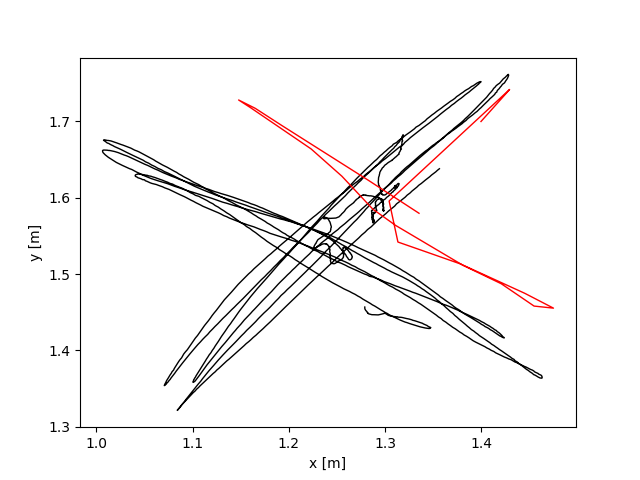
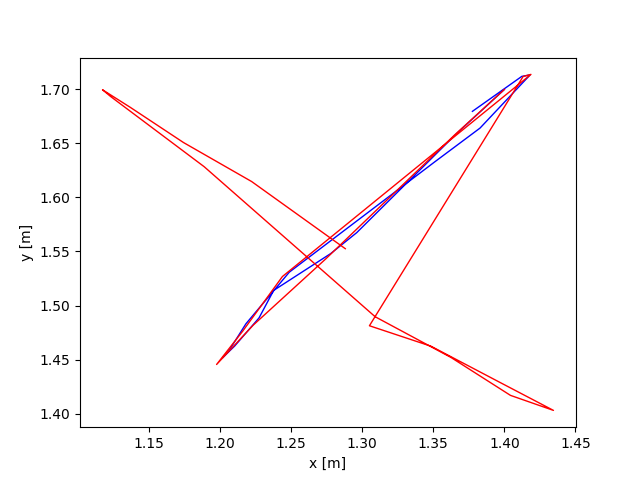
Before and after support

diff --git a/common/handler.py b/common/handler.py
@@ -104,14 +104,19 @@ def showVideo():
             break
     cv2.destroyAllWindows()
 
-def showTrajectory(start=0, stop=-1, showGT = True):
-    xs, zs = readKFT()
+def showTrajectory(start=0, stop=-1, showGT = True, showB = False):
+    xs, zs = readKFT('before')
+    axs, azs = readKFT('after')
     txs, tzs = readGT()
     xs = xs[start:stop]
     zs = zs[start:stop]
+    axs = axs[start:stop]
+    azs = azs[start:stop]
     if showGT:
         plt.plot(txs, tzs, color='black', linewidth=1.0)
-    plt.plot(xs, zs, color='red', linewidth=1.0)
+    if showB:
+        plt.plot(xs, zs, color='blue', linewidth=1.0)
+    plt.plot(axs, azs, color='red', linewidth=1.0)
     plt.xlabel('x [m]')
     plt.ylabel('y [m]')
     plt.savefig('kft.png')
@@ -186,13 +191,13 @@ def readLCC():
     lcc = open(f'{saved_folder}/lcc', 'rb')
     return pickle.load(lcc)
 
-def readKFT():
+def readKFT(filename):
     xs = []
     zs = []
     origin = (1.4, 1.7)
     theta = np.deg2rad(-40)
     scale = 0.6
-    shutil.copyfile('/root/ORB_SLAM2/Examples/Monocular/KeyFrameTrajectory.txt', f'{saved_folder}/trajectory.txt')
+    shutil.copyfile(f'/root/ORB_SLAM2/Examples/Monocular/{filename}.txt', f'{saved_folder}/trajectory.txt')
     with open(f'{saved_folder}/trajectory.txt', 'r') as kftFile:
         lines = kftFile.readlines()
         for line in lines:

diff --git a/common/combined.py b/common/combined.py
@@ -11,7 +11,7 @@ if __name__ == "__main__":
 
     sequence_folder = args.path_to_sequence
 
-    handler.showTrajectory(start=0, stop=-1, showGT=True)
+    handler.showTrajectory(start=0, stop=-1, showGT=False, showB=True)
 
     # handler.readFolder(sequence_folder, 'saved')
     # print(handler.getFrameNumber('1305031098.6659'))
